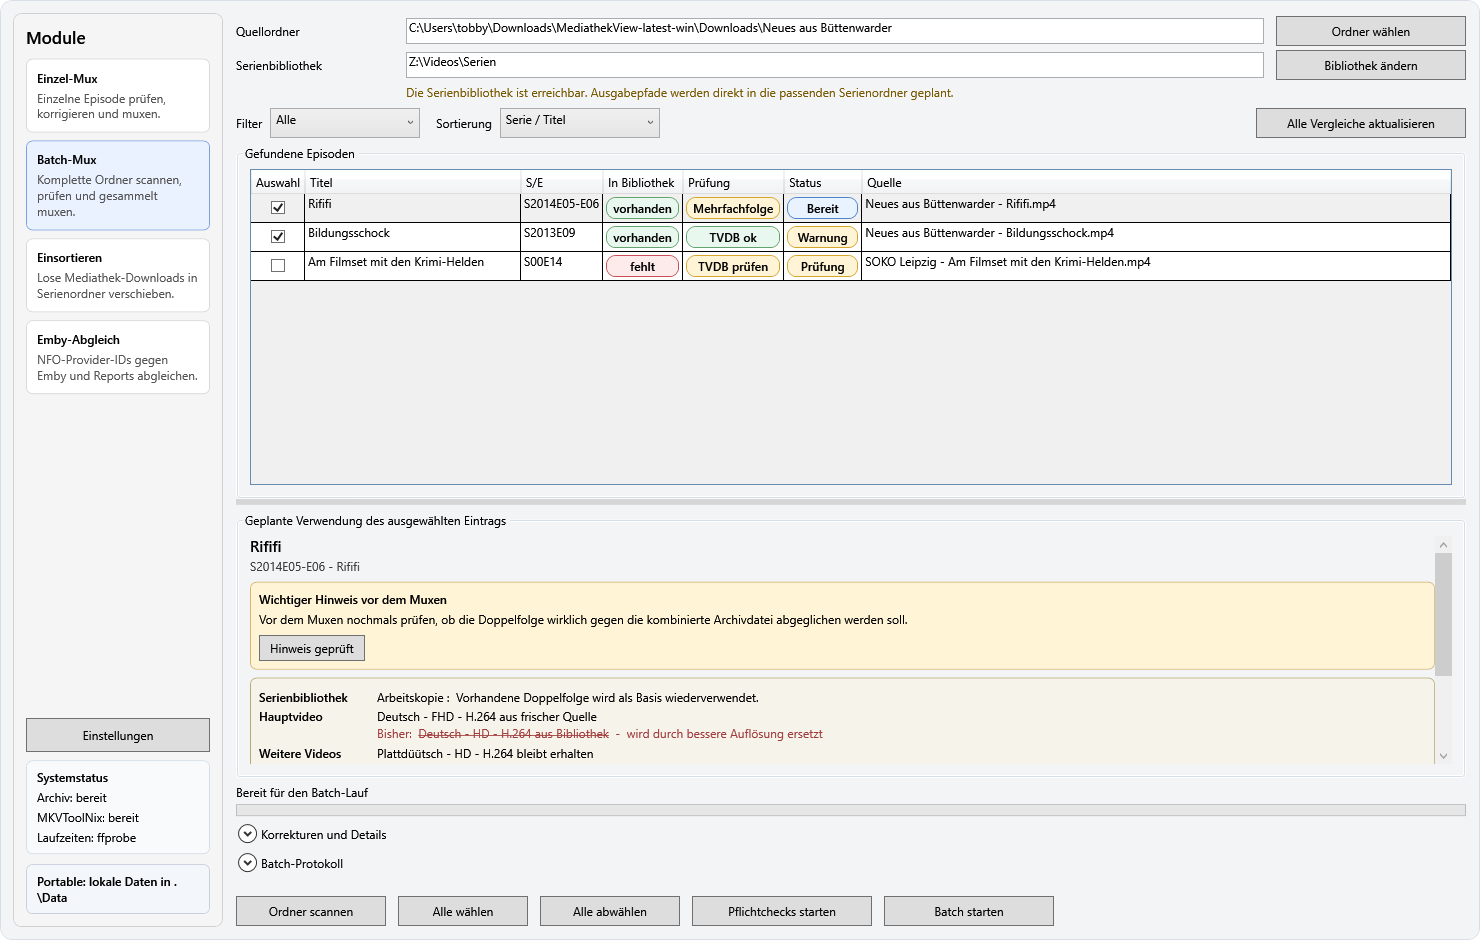
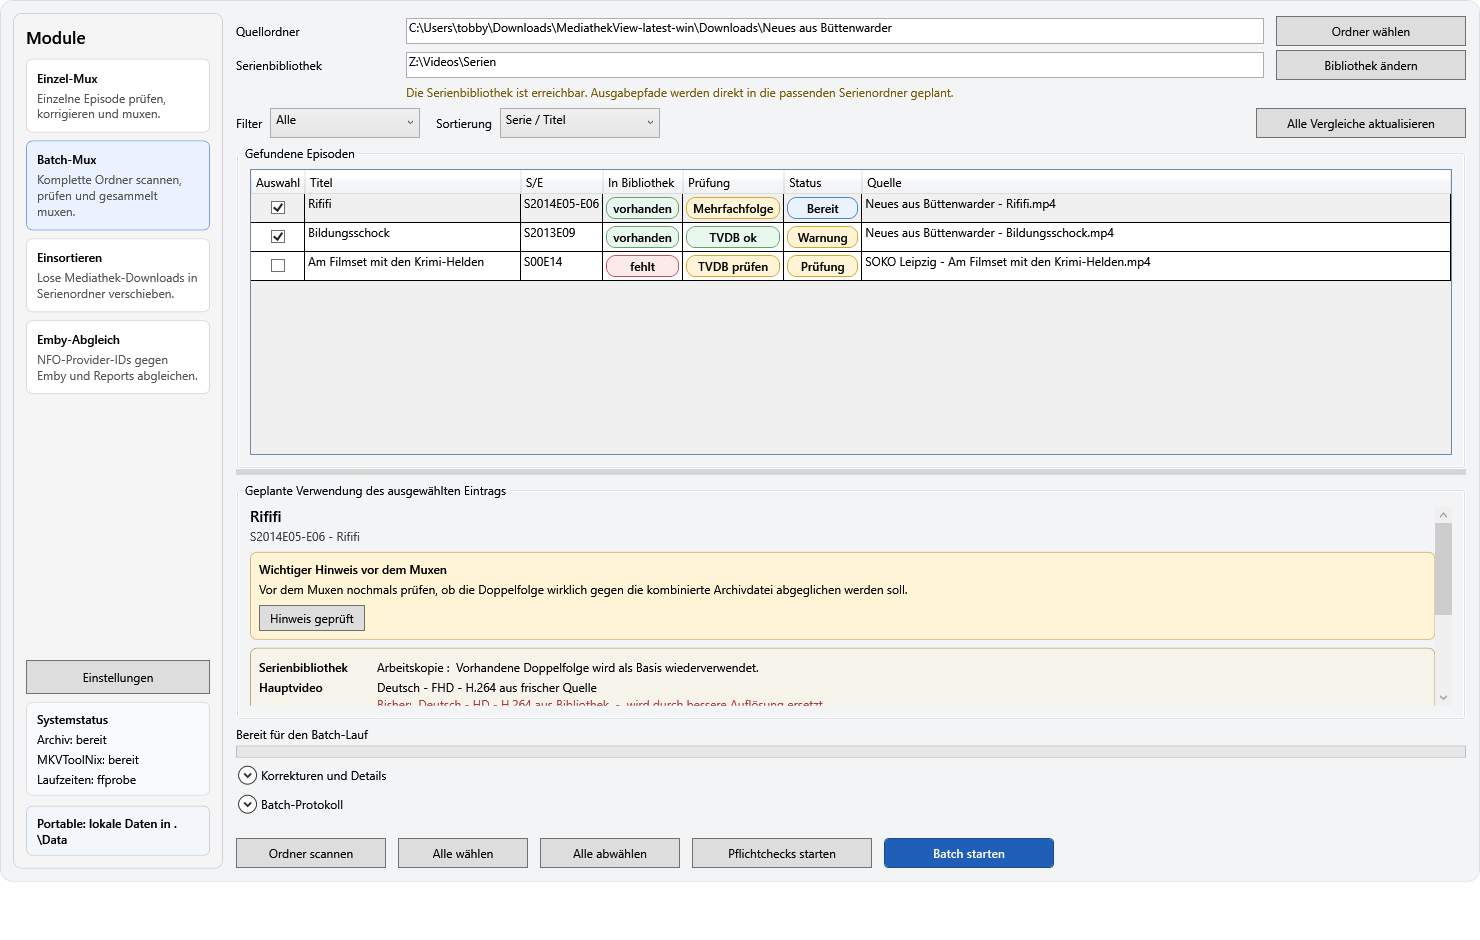
Prepare 1.2.0 release assets

Changed region(s): [[0.0, 0.4936, 0.9946, 0.9872], [0.9946, 0.9255, 1.0, 0.9872]]

diff --git a/docs/releases/1.2.0.md b/docs/releases/1.2.0.md
@@ -1,0 +1,34 @@
+## MKVToolNix-Automatisierung 1.2.0
+
+Feature-Release der lokalen Windows-App zur Automatisierung von MKVToolNix-Muxing, des Einsortierens von MediathekView-Downloads und des nachgelagerten Emby-Abgleichs.
+
+### Neu
+
+- neues Modul `Emby-Abgleich` fuer neu erzeugte MKV-Dateien mit Import strukturierter JSON-Metadatenreports aus Einzel- und Batch-Laeufen
+- gezielter Abgleich lokaler Episoden-`nfo`-Dateien mit bereits sichtbaren Emby-Eintraegen
+- bevorzugter Serienbibliotheksscan fuer Emby statt pauschalem Gesamtscan, inklusive sichtbarem Serverfortschritt
+- direkte TVDB-Korrektur im Emby-Modul ueber den bekannten TVDB-Dialog
+- browsergestuetzte IMDb-Korrektur mit automatischer Uebernahme aus der Zwischenablage beim Zurueckkehren aus dem Browser
+- zentraler Einstellungsdialog fuer Archivpfad, MKVToolNix, ffprobe, TVDB sowie Emby-Zugangsdaten
+
+### Verbessert
+
+- Batch- und Einzelmodus schreiben jetzt maschinenlesbare Metadatenreports fuer die Weiterverarbeitung im Emby-Modul
+- Emby-Pfadabgleich funktioniert jetzt auch sauber bei Windows-Laufwerken lokal und Linux-Pfaden auf dem Emby-Server
+- Emby-Tabelle mit kompakteren Hinweisen, editierbaren Provider-ID-Feldern, pro-Zeilen-TVDB/IMDb-Hilfe und klarerem Abschluss-Schritt zum Schreiben der Aenderungen
+- Primäraktionen in den Modulen `Einzel-Mux`, `Batch-Mux`, `Einsortieren` und `Emby-Abgleich` sind optisch vereinheitlicht und als Abschluss-Aktionen klarer hervorgehoben
+- README und Screenshots wurden auf den aktuellen Modul- und Workflowstand gebracht
+- GitHub bietet jetzt zusaetzlich ein rollierendes `nightly`-Prerelease mit direktem EXE-Download
+
+### Voraussetzungen
+
+- Windows
+- .NET 10 Desktop Runtime
+- MKVToolNix / `mkvmerge.exe`; fuer reine Header-Updates zusaetzlich `mkvpropedit.exe` aus demselben Paket
+- optional: `ffprobe.exe` fuer genauere Laufzeitinformationen
+- optional: TVDB-API-Key und PIN fuer Metadatenpruefung
+- optional: Emby-Server-URL und API-Key fuer den nachgelagerten Emby-Abgleich
+
+### Download
+
+Die bereitgestellte `.exe` ist framework-dependent und enthaelt daher nicht die komplette .NET-Laufzeit. Das haelt die Datei deutlich kleiner; dafuer muss die passende .NET Desktop Runtime 10 installiert sein.
